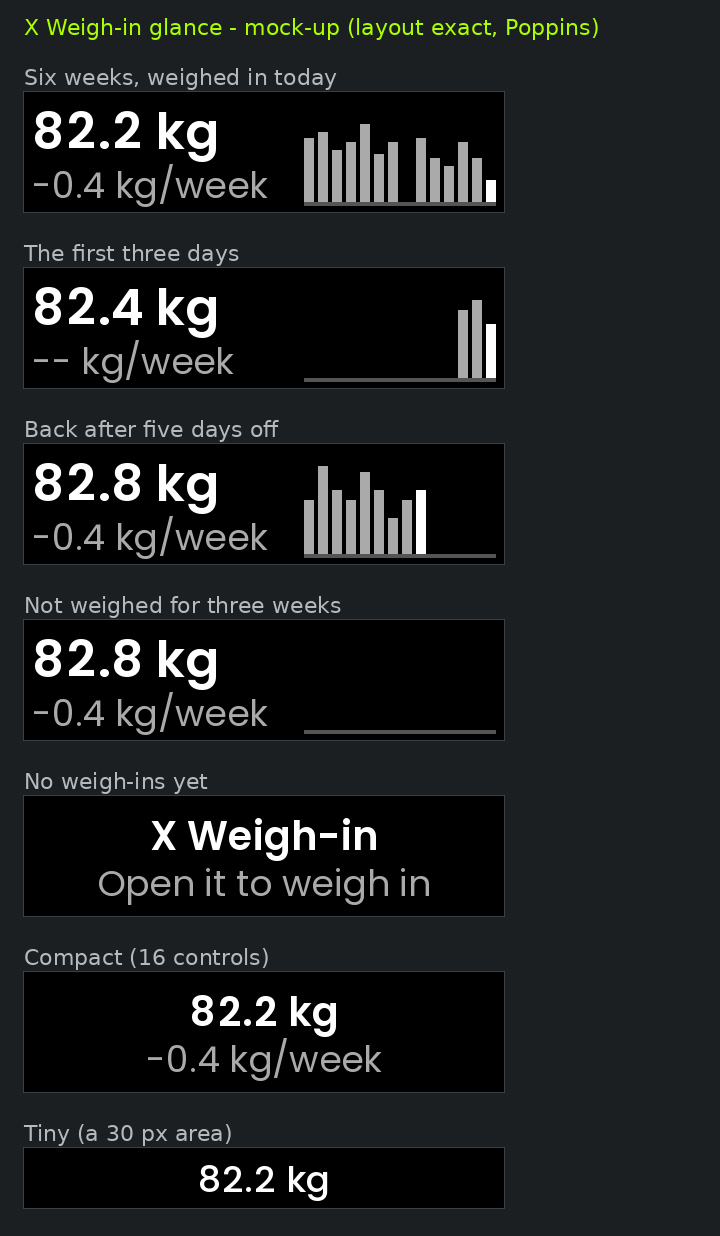
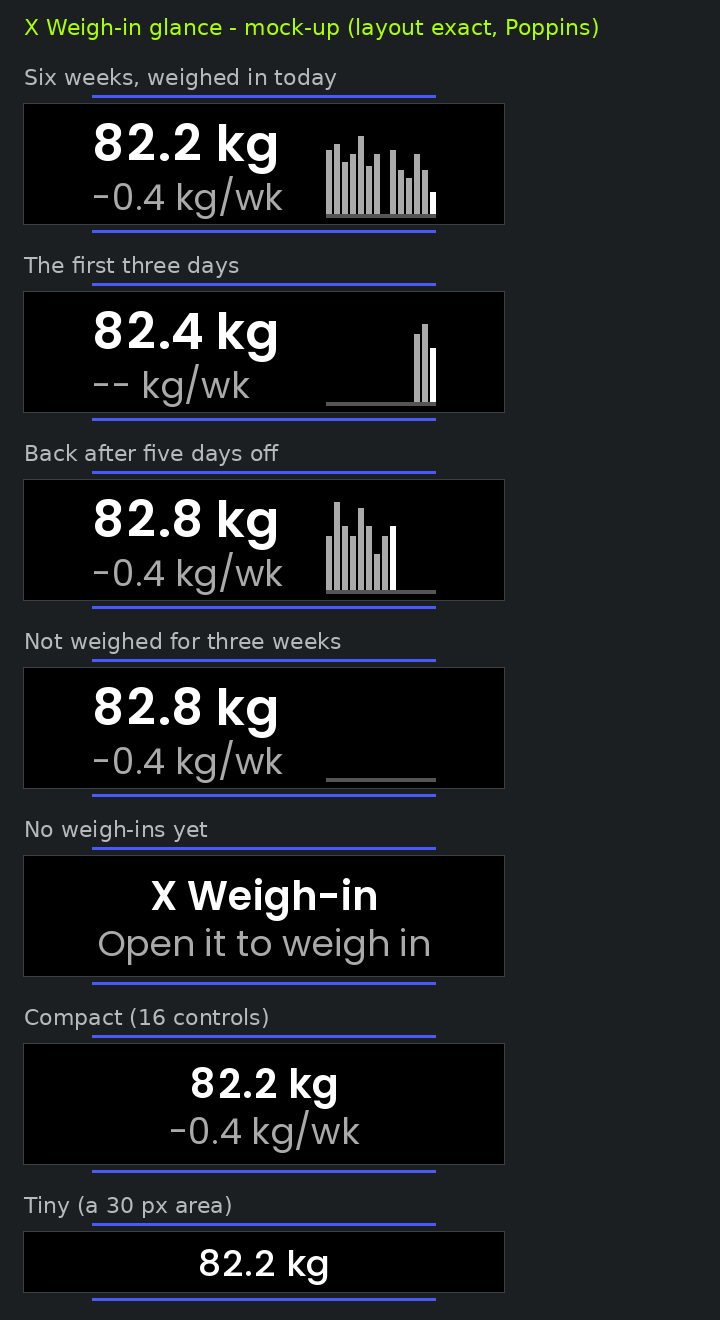
X Weigh-in W3: keep the glance inside the list's separators
Gate W3, first look (Jon's photo): the glance gets the full 240 px, but the
glances list draws its separators only across the middle (about x = 34-206)
and a scroll arc over both edges. The layout ran from x = 4 to 236, so the
trend sat at the bezel and the '--' of '-- kg/week' under the left arc.

- Every layout now keeps to the middle 172 px: the words at the left
  separator, the 14 bars (3 px, 1 px gap) ending at the right one, and the
  change as '-0.4 kg/wk' to fit.
- GlanceLayoutTest fails if any control of any layout leaves that band.
- glance_preview.py draws the list's separators around each panel.
- NOTES: the first look, the cause and the fix.

Claude-Session: https://claude.ai/code/session_01GHUw2af96NXnjEQdZJGUor

Changed region(s): [[0.0306, 0.0, 0.7028, 1.0], [0.4583, 0.0, 0.6722, 0.0307], [0.7028, 0.0, 0.825, 0.0307]]

diff --git a/x-weighin/Software/Libs/Glance/Sources/GlanceLayout.cpp b/x-weighin/Software/Libs/Glance/Sources/GlanceLayout.cpp
@@ -26,15 +26,20 @@ constexpr int16_t kBigHead = 32;   ///< SEMIBOLD_25, the full layout's trend
 constexpr int16_t kHead    = 25;   ///< SEMIBOLD_20, the compact layout's
 constexpr int16_t kLine    = 23;   ///< REGULAR_18 / MEDIUM_18
 
-// The full layout, for a 240 px wide area: 4 px in from each edge (a 60 px
-// strip across the middle of the round display is 232 px wide at its top and
-// bottom rows), the words in a 132 px column, a 4 px gap, then the bars.
-constexpr int16_t kEdge      = 4;
-constexpr int16_t kWordsW    = 132;   ///< "-10.4 kg/week" is 128 px in Regular 18
-constexpr int16_t kBarW      = 5;
-constexpr int16_t kBarGap    = 2;
-constexpr int16_t kBarsW     = kGlanceDays * kBarW + (kGlanceDays - 1) * kBarGap;   ///< 96
-constexpr int16_t kFullWidth = kEdge + kWordsW + 4 + kBarsW + kEdge;               ///< 240
+// Where the words and bars may go. The glance spans the display's full width,
+// but on the watch the glances list draws its separator lines only from about
+// x = 34 to 206 and a scroll arc over the left and right edges, so text near
+// an edge sat under the arc (Jon's photo, Gate W3). Every layout keeps to the
+// middle kSafeW px, in line with the separators, as the list's own titles do.
+constexpr int16_t kSafeW = 172;
+// The full layout in that band: the words in a column on the left, the bars
+// on the right, a 4 px gap between.
+constexpr int16_t kWordsW    = 113;   ///< "123.4 kg" is 113 px in SemiBold 25
+constexpr int16_t kBarW      = 3;
+constexpr int16_t kBarGap    = 1;
+constexpr int16_t kBarsW     = kGlanceDays * kBarW + (kGlanceDays - 1) * kBarGap;   ///< 55
+static_assert(kWordsW + 4 + kBarsW == kSafeW, "the words, the gap and the bars fill the band");
+constexpr int16_t kFullWidth = 240;   ///< the watch's area; anything narrower is compact
 constexpr int16_t kFullHeight    = kBigHead + kLine;   ///< 55
 constexpr int16_t kTwoLineHeight = kHead + kLine;      ///< 48
 // The bars stand on a 2 px baseline; the tallest is kBarsH.
@@ -76,7 +81,7 @@ void rect(Layout& out, int16_t x, int16_t y, int16_t w, int16_t h, uint8_t colou
     s.colour = colour;
 }
 
-/// The two lines of words: "81.9 kg" and "-0.4 kg/week", or the empty state.
+/// The two lines of words: "81.9 kg" and "-0.4 kg/wk", or the empty state.
 struct Words {
     char head[GLANCE_TEXT_SIZE + 1] {};
     char line[GLANCE_TEXT_SIZE + 1] {};
@@ -101,7 +106,7 @@ void words(const View& v, Words& w)
     } else {
         std::snprintf(change, sizeof(change), "--");
     }
-    std::snprintf(w.line, sizeof(w.line), "%s kg/week", change);
+    std::snprintf(w.line, sizeof(w.line), "%s kg/wk", change);
 }
 
 /// The bars, right of the words: one per day with a weigh-in, scaled to the
@@ -142,11 +147,16 @@ void layout(const View& v, int16_t width, int16_t height, uint32_t maxControls, 
     Words w;
     words(v, w);
 
+    // The band everything keeps to, centred; an area narrower than the band
+    // (none reported yet) uses its full width.
+    const int16_t bw = width < kSafeW ? width : kSafeW;
+    const int16_t bx = static_cast<int16_t>((width - bw) / 2);
+
     if (height < kTwoLineHeight || maxControls < 2) {
         // Tiny: one line, as much as fits.
         out.kind        = Layout::Kind::Tiny;
         const int16_t h = height < kLine ? height : kLine;
-        text(out, 0, static_cast<int16_t>((height - h) / 2), width, h, v.hasData ? w.head : "Open X Weigh-in",
+        text(out, bx, static_cast<int16_t>((height - h) / 2), bw, h, v.hasData ? w.head : "Open X Weigh-in",
              GLANCE_FONT_POPPINS_MEDIUM_18, GLANCE_COLOR_WHITE, GLANCE_ALIGN_H_CENTER);
         return;
     }
@@ -154,24 +164,23 @@ void layout(const View& v, int16_t width, int16_t height, uint32_t maxControls, 
         // Compact: the two lines of words, centred.
         out.kind          = Layout::Kind::Compact;
         const int16_t top = static_cast<int16_t>((height - kTwoLineHeight) / 2);
-        text(out, 0, top, width, kHead, w.head, GLANCE_FONT_POPPINS_SEMIBOLD_20, GLANCE_COLOR_WHITE,
+        text(out, bx, top, bw, kHead, w.head, GLANCE_FONT_POPPINS_SEMIBOLD_20, GLANCE_COLOR_WHITE,
              GLANCE_ALIGN_H_CENTER);
-        text(out, 0, static_cast<int16_t>(top + kHead), width, kLine, w.line, GLANCE_FONT_POPPINS_REGULAR_18,
+        text(out, bx, static_cast<int16_t>(top + kHead), bw, kLine, w.line, GLANCE_FONT_POPPINS_REGULAR_18,
              GLANCE_COLOR_GRAY, GLANCE_ALIGN_H_CENTER);
         return;
     }
 
-    // Full: the words on the left, the bars on the right, the block centred
-    // in the area.
+    // Full: the words on the left of the band, the bars on the right,
+    // centred top to bottom.
     out.kind         = Layout::Kind::Full;
-    const int16_t ox = static_cast<int16_t>((width - kFullWidth) / 2);
     const int16_t oy = static_cast<int16_t>((height - (kBarsTop + kBarsH + kBaseH)) / 2);
     const int16_t ty = static_cast<int16_t>((height - kFullHeight) / 2);
-    text(out, static_cast<int16_t>(ox + kEdge), ty, kWordsW, kBigHead, w.head, GLANCE_FONT_POPPINS_SEMIBOLD_25,
-         GLANCE_COLOR_WHITE, GLANCE_ALIGN_H_LEFT);
-    text(out, static_cast<int16_t>(ox + kEdge), static_cast<int16_t>(ty + kBigHead), kWordsW, kLine, w.line,
-         GLANCE_FONT_POPPINS_REGULAR_18, GLANCE_COLOR_GRAY, GLANCE_ALIGN_H_LEFT);
-    bars(v, static_cast<int16_t>(ox + kFullWidth - kEdge - kBarsW), oy, out);
+    text(out, bx, ty, kWordsW, kBigHead, w.head, GLANCE_FONT_POPPINS_SEMIBOLD_25, GLANCE_COLOR_WHITE,
+         GLANCE_ALIGN_H_LEFT);
+    text(out, bx, static_cast<int16_t>(ty + kBigHead), kWordsW, kLine, w.line, GLANCE_FONT_POPPINS_REGULAR_18,
+         GLANCE_COLOR_GRAY, GLANCE_ALIGN_H_LEFT);
+    bars(v, static_cast<int16_t>(bx + bw - kBarsW), oy, out);
 }
 
 }  // namespace Glance

diff --git a/x-weighin/Tests/Host/GlanceLayoutTest.cpp b/x-weighin/Tests/Host/GlanceLayoutTest.cpp
@@ -89,12 +89,21 @@ int widthOf(const Spec& s)
     return w;
 }
 
+/// The middle of the area the glances list lines up with: its separators run
+/// across the middle 172 px of the watch's 240, and its scroll arc covers both
+/// edges (NOTES, Gate W3).
+constexpr int16_t kBand = 172;
+
 void expectFits(const Layout& l, int16_t w, int16_t h, uint32_t maxControls, const std::string& what)
 {
     EXPECT_LE(l.count, maxControls) << what;
     EXPECT_LE(l.count, Layout::kMax) << what;
+    const int16_t bandL = w > kBand ? static_cast<int16_t>((w - kBand) / 2) : 0;
+    const int16_t bandR = w > kBand ? static_cast<int16_t>(bandL + kBand) : w;
     for (uint8_t i = 0; i < l.count; ++i) {
         const Spec& s = l.items[i];
+        EXPECT_GE(s.x, bandL) << what << " control " << int(i) << " left of the band";
+        EXPECT_LE(s.x + s.w, bandR) << what << " control " << int(i) << " right of the band";
         EXPECT_GE(s.x, 0) << what;
         EXPECT_GE(s.y, 0) << what;
         EXPECT_GT(s.w, 0) << what << " control " << int(i);
@@ -161,22 +170,27 @@ TEST(GlanceLayout, TheWatchGetsTheFullLayout)
     const Layout l = full(falling(8240, 14, -42));
     ASSERT_EQ(l.kind, Layout::Kind::Full);
     EXPECT_EQ(l.count, kFullControls);
+    // In line with the list's separators, x = 34 to 206: the words start at
+    // the left one and the bars end at the right one.
+    EXPECT_EQ(l.items[0].x, 34);
+    EXPECT_EQ(l.items[1].x, 34);
+    EXPECT_EQ(l.items[2].x + l.items[2].w, 206);
     ASSERT_EQ(l.items[0].type, Spec::Type::Text);
     EXPECT_STREQ(l.items[0].text, "81.9 kg");
     EXPECT_EQ(l.items[0].font, GLANCE_FONT_POPPINS_SEMIBOLD_25);
     ASSERT_EQ(l.items[1].type, Spec::Type::Text);
-    EXPECT_STREQ(l.items[1].text, "-0.4 kg/week");
+    EXPECT_STREQ(l.items[1].text, "-0.4 kg/wk");
     EXPECT_EQ(l.items[2].type, Spec::Type::Rect);   // the baseline
     EXPECT_EQ(l.items[2].colour, GLANCE_COLOR_GRAY_DARK);
 }
 
 TEST(GlanceLayout, TheWords)
 {
-    EXPECT_STREQ(full(falling(8240, 3, 0)).items[1].text, "-- kg/week");
-    EXPECT_STREQ(full(falling(8240, 14, 0)).items[1].text, "0.0 kg/week");
-    EXPECT_STREQ(full(falling(8240, 14, 35)).items[1].text, "+0.4 kg/week");
-    EXPECT_STREQ(full(falling(12000, 14, -1040)).items[1].text, "-10.4 kg/week");
-    EXPECT_STREQ(full(falling(30000, 14, 12345)).items[1].text, "+123 kg/week");
+    EXPECT_STREQ(full(falling(8240, 3, 0)).items[1].text, "-- kg/wk");
+    EXPECT_STREQ(full(falling(8240, 14, 0)).items[1].text, "0.0 kg/wk");
+    EXPECT_STREQ(full(falling(8240, 14, 35)).items[1].text, "+0.4 kg/wk");
+    EXPECT_STREQ(full(falling(12000, 14, -1040)).items[1].text, "-10.4 kg/wk");
+    EXPECT_STREQ(full(falling(30000, 14, 12345)).items[1].text, "+123 kg/wk");
 
     Layout empty;
     XWeighIn::Glance::layout(View {}, 240, 60, 32, empty);
@@ -212,8 +226,8 @@ TEST(GlanceLayout, ABarPerWeighInStandingOnTheBaseline)
         EXPECT_GE(b.x, l.items[1].x + l.items[1].w);
     }
     // Missed days leave their slots empty: after days 2 and 3, the next bar
-    // is three slots on from day 1's.
-    EXPECT_EQ(bars[2].x - bars[1].x, 3 * 7);
+    // is three slots on from day 1's (days 0 and 1 are one slot apart).
+    EXPECT_EQ(bars[2].x - bars[1].x, 3 * (bars[1].x - bars[0].x));
 }
 
 TEST(GlanceLayout, HeavierIsTallerAndTheNewestIsWhite)
@@ -271,5 +285,5 @@ TEST(GlanceLayout, FewControlsGiveTheCompactLayout)
     EXPECT_EQ(l.kind, Layout::Kind::Compact);
     ASSERT_EQ(l.count, 2);
     EXPECT_STREQ(l.items[0].text, "81.9 kg");
-    EXPECT_STREQ(l.items[1].text, "-0.4 kg/week");
+    EXPECT_STREQ(l.items[1].text, "-0.4 kg/wk");
 }

diff --git a/x-weighin/docs/experiments/glance_preview.py b/x-weighin/docs/experiments/glance_preview.py
@@ -10,6 +10,11 @@ point face as the watch does: digits only, anything else as '?'. Without the
 SDK, DejaVu Sans stands in. A mock-up until the watch shows the real thing.
 Copied from HybridX Streak's docs/experiments.
 
+On the watch the glances list draws a separator line above and below each
+glance across the middle 172 px only, and a scroll arc over both edges (NOTES,
+Gate W3). Each panel shows those separators, and darkens the edges, so the
+layout can be checked against them.
+
     glance_preview.py <glance_preview binary> <out.png> [w h controls]
 """
 import os
@@ -28,6 +33,8 @@ SIZES = {0: (18, "Regular"), 1: (10, "Medium"), 2: (18, "Medium"), 3: (25, "Medi
          5: (20, "SemiBold"), 6: (25, "SemiBold"), 7: (30, "SemiBold"), 8: (35, "SemiBold")}
 DIGITS_ONLY = {1}  # POPPINS_MEDIUM_10 holds '0'..'9' and '?' (HybridX Streak NOTES, S4.2)
 S = 2  # scale
+BAND = 172  # the list's separators span the middle of a 240 px glance
+LIST_BLUE = (70, 90, 255)
 POPPINS = os.path.join(os.environ.get("UNA_SDK", ""), "Docs/Tutorials/Buttons/Software/Apps/TouchGFX-GUI/assets/fonts")
 REAL = os.path.isfile(os.path.join(POPPINS, "Poppins-Regular.ttf"))
 
@@ -72,7 +79,7 @@ for line in lines:
 label_font = ImageFont.truetype("/usr/share/fonts/truetype/dejavu/DejaVuSans.ttf", 22)
 pad, gap = 24, 56
 W = max(max(p[1].width for p in panels) + 2 * pad, 720)
-H = sum(p[1].height + gap for p in panels) + pad + 40
+H = sum(p[1].height + gap + 12 for p in panels) + pad + 40
 sheet = Image.new("RGB", (W, H), (27, 31, 34))
 sd = ImageDraw.Draw(sheet)
 title = "X Weigh-in glance - mock-up (layout exact, %s)" % ("Poppins" if REAL else "font stand-in")
@@ -81,8 +88,22 @@ sd.text((pad, 14), title, font=label_font,
 y = 40 + pad
 for name, img, _ in panels:
     sd.text((pad, y), name, font=label_font, fill=(180, 186, 190))
-    sheet.paste(img, (pad, y + 28))
-    sd.rectangle([pad - 1, y + 27, pad + img.width, y + 28 + img.height], outline=(58, 64, 68))
-    y += img.height + gap
+    w = img.width // S
+    if w > BAND:
+        # Darken the edges the list's scroll arc covers.
+        edge = (w - BAND) // 2 * S
+        dark = Image.new("RGB", img.size, (0, 0, 0))
+        mask = Image.new("L", img.size, 0)
+        ImageDraw.Draw(mask).rectangle([0, 0, edge - 1, img.height], fill=150)
+        ImageDraw.Draw(mask).rectangle([img.width - edge, 0, img.width, img.height], fill=150)
+        img = Image.composite(dark, img, mask)
+    top = y + 40
+    sheet.paste(img, (pad, top))
+    sd.rectangle([pad - 1, top - 1, pad + img.width, top + img.height], outline=(58, 64, 68))
+    if w > BAND:
+        x0 = pad + (w - BAND) // 2 * S
+        for ly in (top - 9, top + img.height + 6):
+            sd.rectangle([x0, ly, x0 + BAND * S - 1, ly + 2], fill=LIST_BLUE)
+    y += img.height + gap + 12
 sheet.save(out)
 print("wrote", out)

diff --git a/x-weighin/Software/Libs/Glance/Header/GlanceLayout.hpp b/x-weighin/Software/Libs/Glance/Header/GlanceLayout.hpp
@@ -6,9 +6,11 @@
  *
  * The area and the control budget come from the watch at run time
  * (RequestGlanceConfig); Jon's watch gives 240x60 and 32 controls (HybridX
- * Streak NOTES, Gate 0). The layout adapts:
+ * Streak NOTES, Gate 0). The glances list draws its separators only across
+ * the middle 172 px, and a scroll arc over both edges, so everything keeps to
+ * that middle band (NOTES, Gate W3). The layout adapts:
  *   full     on the left the trend, "81.9 kg", and under it the weekly change,
- *            "-0.4 kg/week"; on the right the last 14 days as bars, one per
+ *            "-0.4 kg/wk"; on the right the last 14 days as bars, one per
  *            weigh-in, the newest in white, on a baseline (17 controls);
  *   compact  the two lines alone, centred (too few controls, or narrow);
  *   tiny     "81.9 kg" alone (a very short area).

diff --git a/x-weighin/docs/NOTES.md b/x-weighin/docs/NOTES.md
@@ -610,11 +610,16 @@ is. Streak's has drawn on Jon's watch since its S4.
 
 ![The glance, mock-up from the real layout code](screens/w3-glance-preview.png)
 
+- **Everything keeps to the middle 172 px** (x = 34 to 206), in line with the
+  glances list's separator lines. The list's scroll arc covers both edges
+  (Gate W3, first look, below).
 - **On the left, the trend** in SemiBold 25, `82.2 kg`, as on Home. Under it,
-  the weekly change, `-0.4 kg/week` (`-- kg/week` until the log spans a week).
-  - `-0.4 kg this week`, Home's wording, is 150 px in Regular 18 and would not
-    fit the 132 px column; `-10.4 kg/week` is 128 px.
-- **On the right, 14 bars,** one per day, ending today.
+  the weekly change, `-0.4 kg/wk` (`-- kg/wk` until the log spans a week).
+  - The words column is 113 px: `123.4 kg` is 113 px in SemiBold 25 and
+    `-10.4 kg/wk` 106 px in Regular 18. Home's `-0.4 kg this week` (150 px)
+    would not fit.
+- **On the right, 14 bars,** one per day, ending today: 3 px wide with a 1 px
+  gap, 55 px in all.
   - Each bar is that day's weigh-in, with heights on the 14 days' own scale
     (`GraphScale`: at least 2 kg tall, so a 0.2 kg wobble stays small).
   - A missed day is a gap, over a dark grey baseline.
@@ -718,6 +723,54 @@ watch is the first place it is seen for real.
    trend should have moved.
 4. **Anything off** (a clipped word, a missing bar, the wrong numbers), a
    photo is ideal.
+
+### Gate W3, first look (12 October 2026)
+
+Jon installed the CI build (run 103) and sent a photo of the glances list.
+
+**What worked:**
+- The glance ran, read the SharedData copy and showed his trend, `82.2 kg`
+  (two weigh-ins on 12 October; the latest counts).
+- The weekly change line was there, and so were the baseline and that day's
+  white bar.
+
+**What was wrong:** the text did not display properly and the content was not
+aligned with the list. The photo shows why:
+- The glance gets the display's full width, 240 px. But the glances list draws
+  its separator lines (above and below each glance) only from about x = 34 to
+  206, and the titles of the other entries ("Streak", "Notifications") are
+  centred between them.
+- The list also draws a scroll arc over the left and right edges, about 10 px
+  thick, just inside the bezel.
+- The layout used x = 4 to 236. So `82.2 kg` started at the bezel, the `--` of
+  `-- kg/week` sat under the left arc and looked broken, and the bars ended
+  at the right bezel.
+
+These positions are measured from the photo against the 240 px display. They
+are approximate, and nothing in the SDK documents them.
+
+**Fix:** every layout keeps to the middle 172 px (`kSafeW` in
+`GlanceLayout.cpp`).
+- The full layout puts the words at the left separator and ends the bars at
+  the right one.
+- To fit the band:
+  - the bars are 3 px wide with a 1 px gap;
+  - the words column is 113 px;
+  - the change reads `-0.4 kg/wk`.
+- Compact and tiny centre their text within the same band.
+- **Guards:**
+  - `GlanceLayoutTest` now fails if any control of any layout, for any area
+    and budget, leaves the middle 172 px of a 240 px area;
+  - a trial run with the old full-width band failed it.
+- **Mock-up:** `glance_preview.py` now draws the list's separators above and
+  below each panel, so alignment shows before the watch.
+- **Streak's glance** uses the same 240 px from x = 4 (its mountain) and may
+  have the same overlap. Not changed here; Streak's own phase decides.
+- **Verified:**
+  - 113 host tests pass;
+  - the glance compiles for the watch (26,524 bytes, a compile check with stubs);
+  - the mock-up was checked by eye against the separators.
+- **Jon to check:** the glance on the watch again, from the next CI build.
 
 ## Open, for later phases
 
